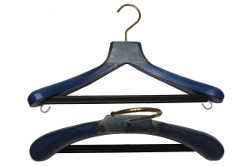
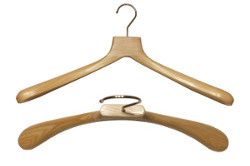
Updated model photos and fixed alt message in map.

diff --git a/contact.html b/contact.html
@@ -80,7 +80,7 @@
             var marker = new google.maps.Marker({
                 position: location,
                 map: map,
-                title: 'JZ Michal Starzynski!'
+                title: 'ZS Michal Starzynski!'
             });
 
             var infowindow = new google.maps.InfoWindow();
